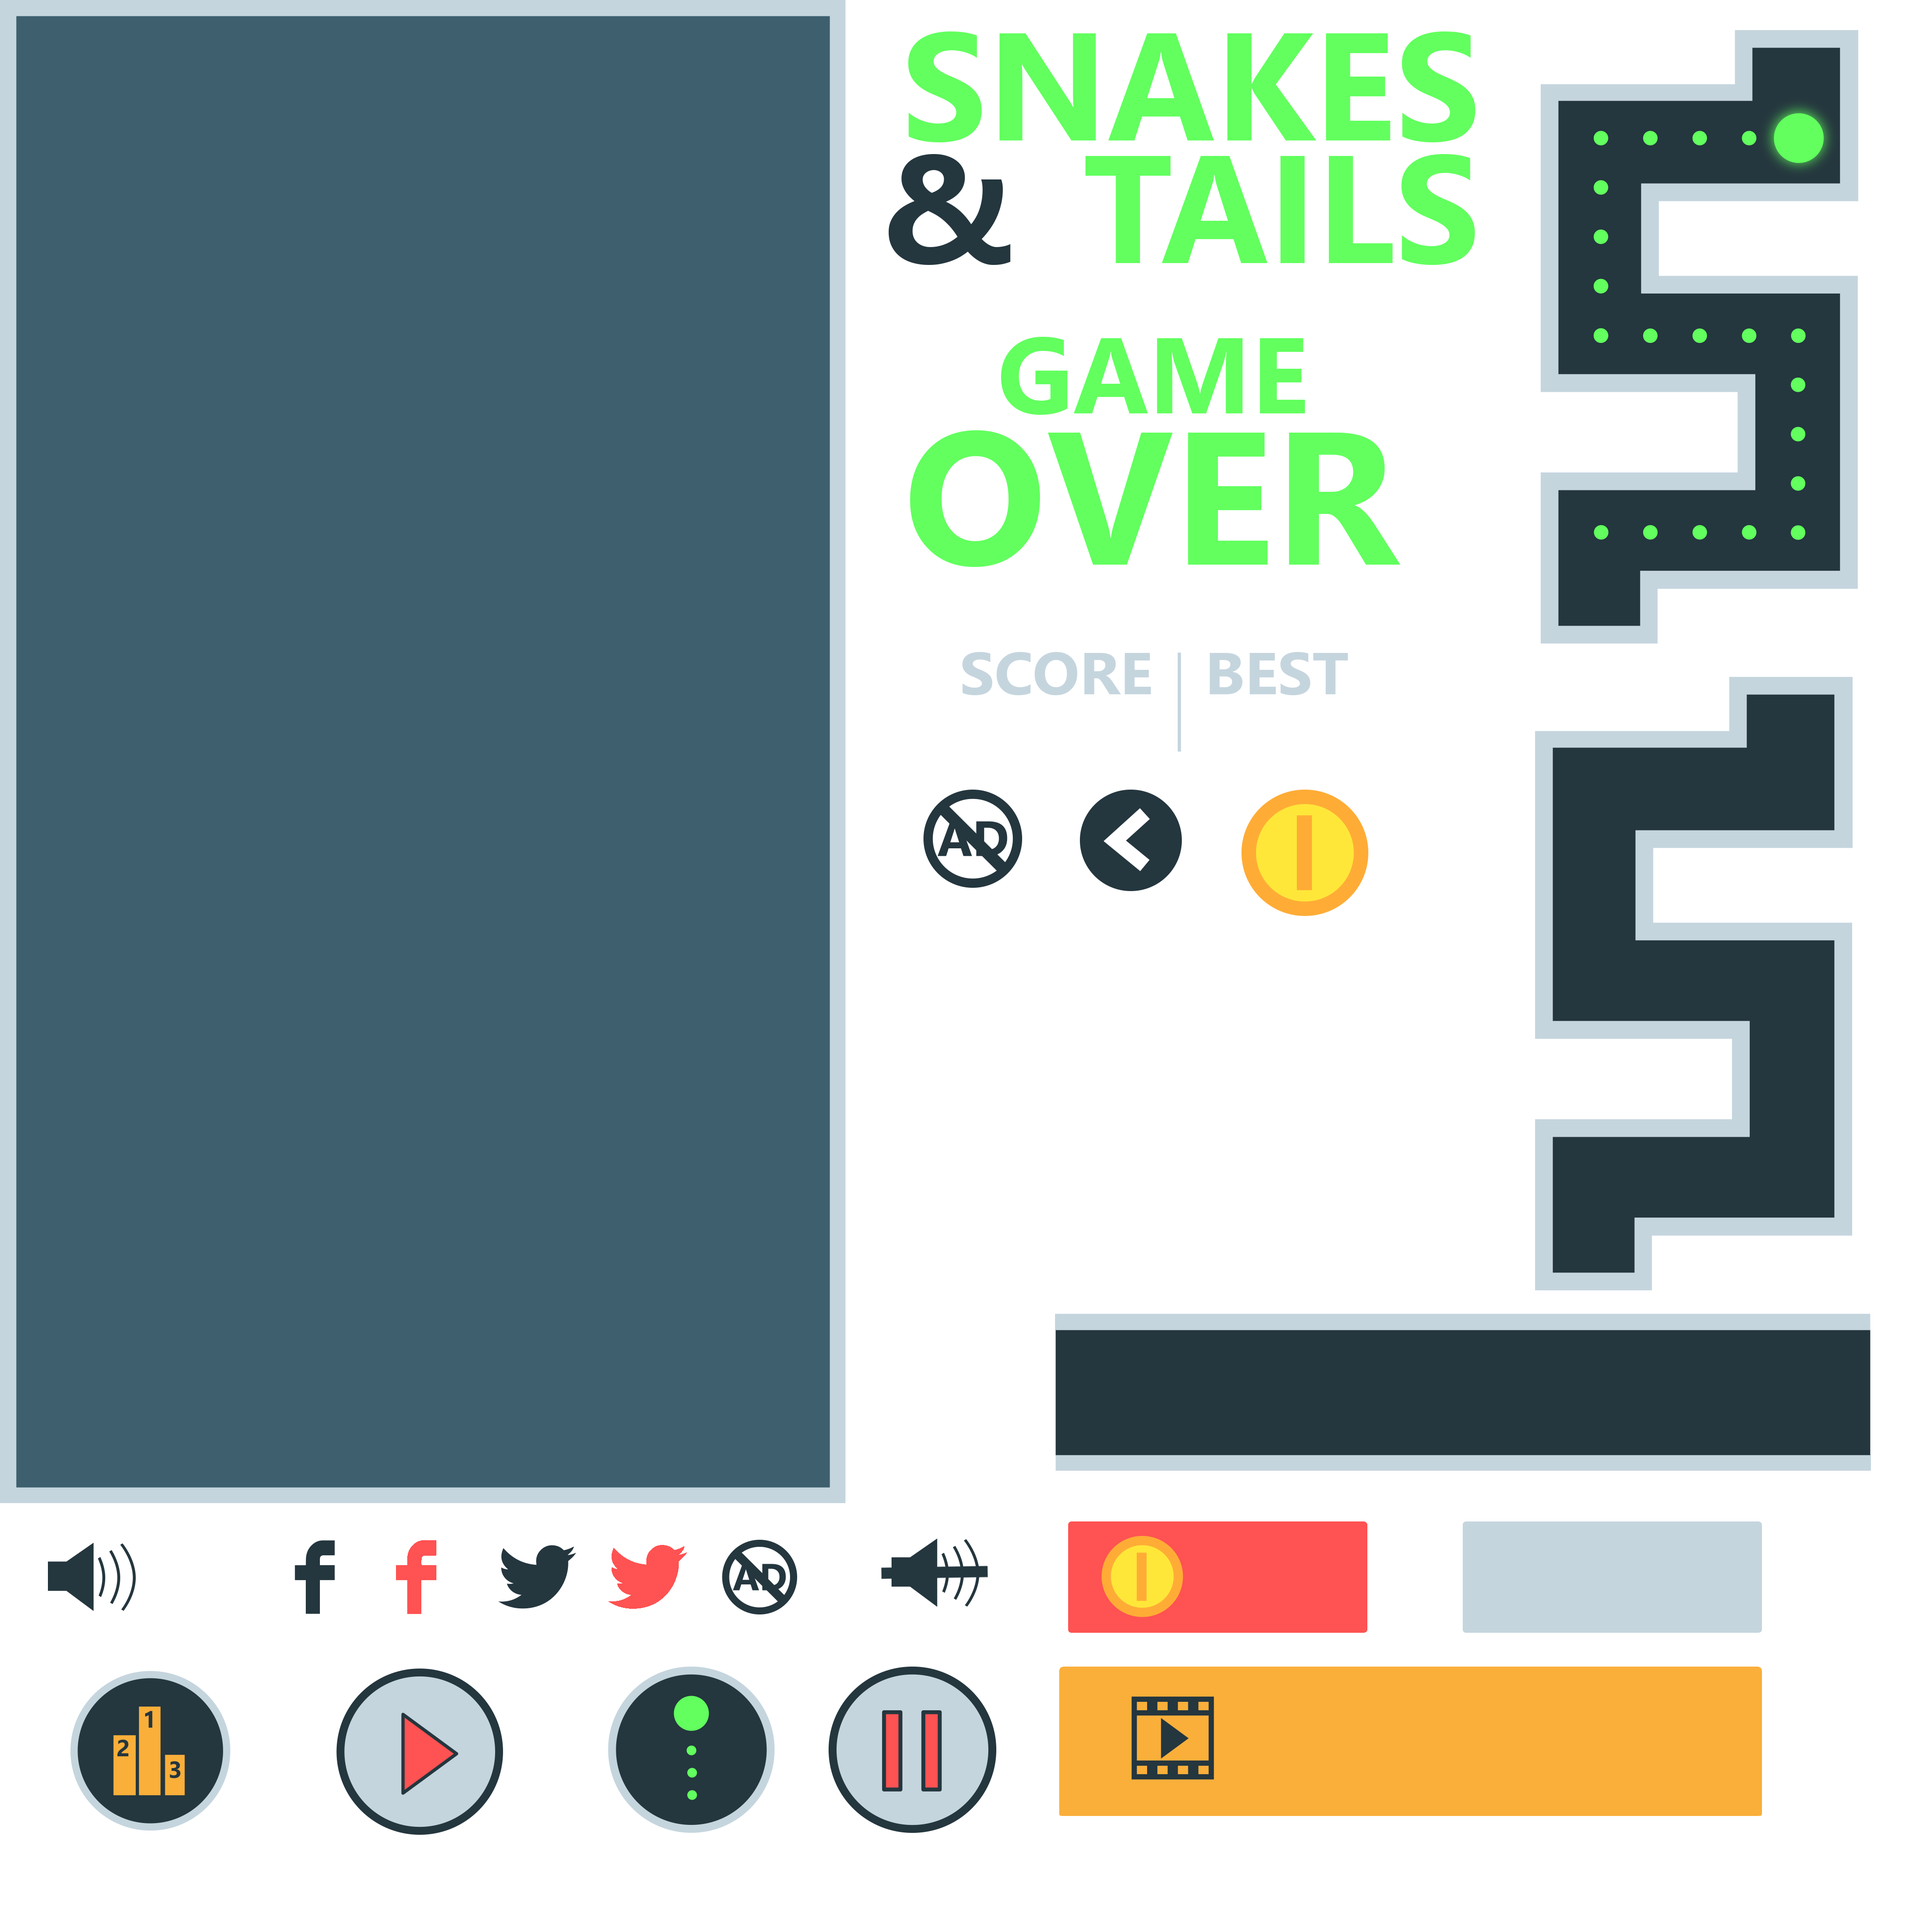
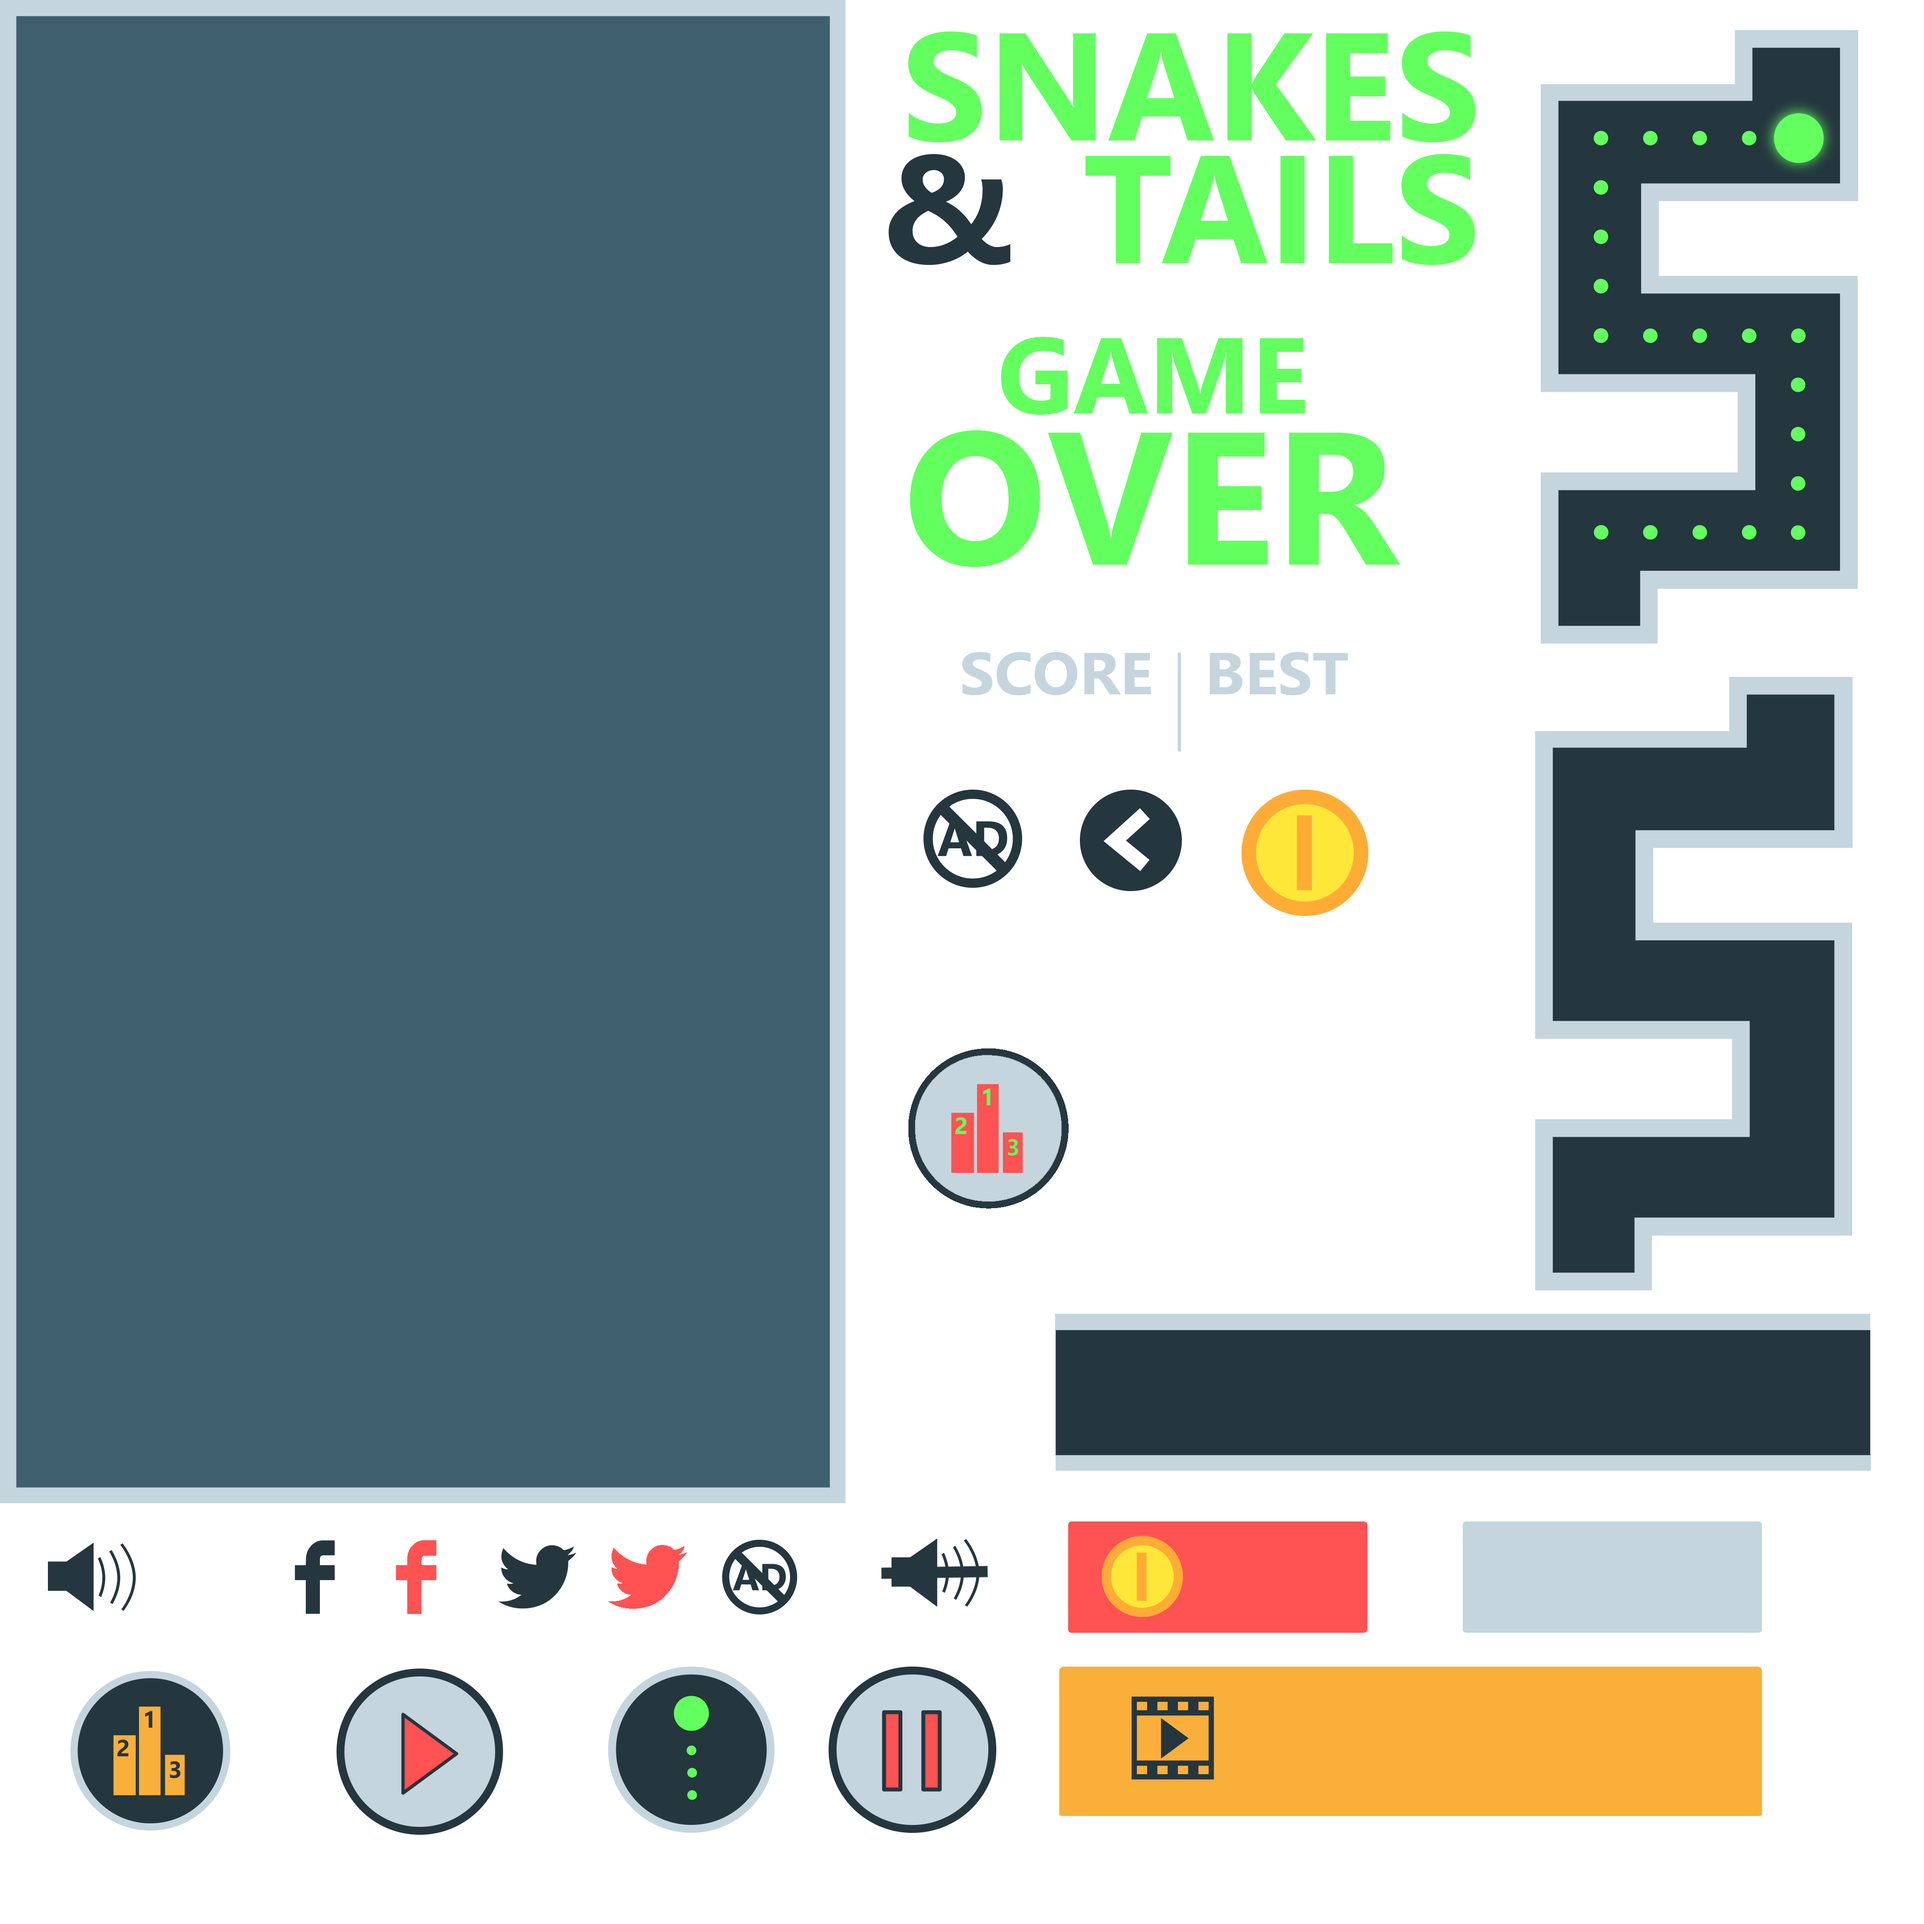
Leaderboards
-leaderboards completed
- added new post and view sprites for the leaderboards

Changed region(s): [[0.4688, 0.5312, 0.5625, 0.625]]

diff --git a/Assets/Scripts/LeaderBoard.cs b/Assets/Scripts/LeaderBoard.cs
@@ -3,6 +3,7 @@ using System.Collections;
 using GooglePlayGames;
 using UnityEngine.SocialPlatforms;
 using UnityEngine.UI;
+using UnityEngine.SceneManagement;
 
 
 // Need to add email of users you want to test play game services features in 
@@ -15,6 +16,11 @@ public class LeaderBoard : MonoBehaviour {
     private string leaderboard_id = "CgkIpfv-ypQeEAIQAA";
     private PointManager point_manager_script;
 
+    public GameObject start_show_leader_btn;
+    public GameObject start_login_leader_btn;
+    public GameObject go_post_leader_btn;
+    public GameObject go_login_leader_btn;
+
 
     void Start ()
     {
@@ -25,12 +31,6 @@ public class LeaderBoard : MonoBehaviour {
         PlayGamesPlatform.Activate();
 
         point_manager_script = this.GetComponent<PointManager>();
-
-        // Check if the user is already logged in
-        //if (!PlayGamesPlatform.Instance.IsAuthenticated())
-        //{
-        //    LogIn();
-        //}
     }
 
 
@@ -41,7 +41,10 @@ public class LeaderBoard : MonoBehaviour {
         {
             if (success) 
             {
-                Debug.Log ("Login Sucess");
+                start_login_leader_btn.SetActive(false);
+                start_show_leader_btn.SetActive(true);
+                go_login_leader_btn.SetActive(false);
+                go_post_leader_btn.SetActive(true);  
             } 
             else 
             {
@@ -51,7 +54,7 @@ public class LeaderBoard : MonoBehaviour {
     }
 
 
-    // Shows All Available Leaderborad
+    // Shows All Available Leaderboard
     public void OnShowLeaderBoard ()
     {
         Social.ShowLeaderboardUI(); // Show all leaderboard
@@ -69,7 +72,7 @@ public class LeaderBoard : MonoBehaviour {
                 if (success)
                 {
                     Debug.Log("Update Score Success");
-
+                    Social.ShowLeaderboardUI();
                 }
                 else
                 {
